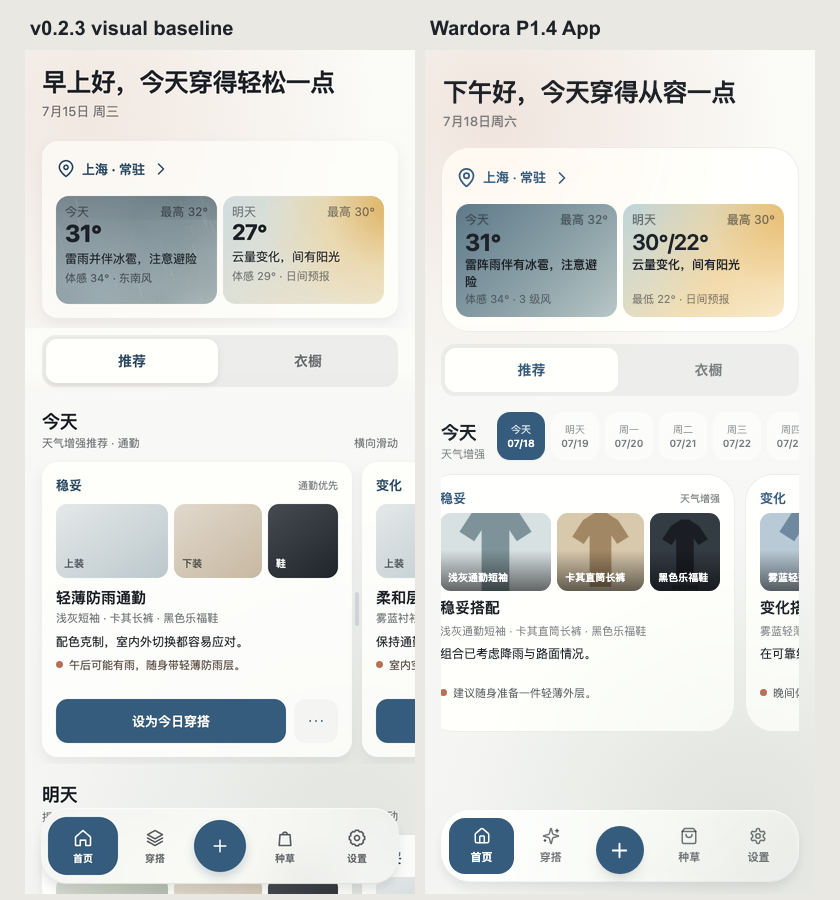
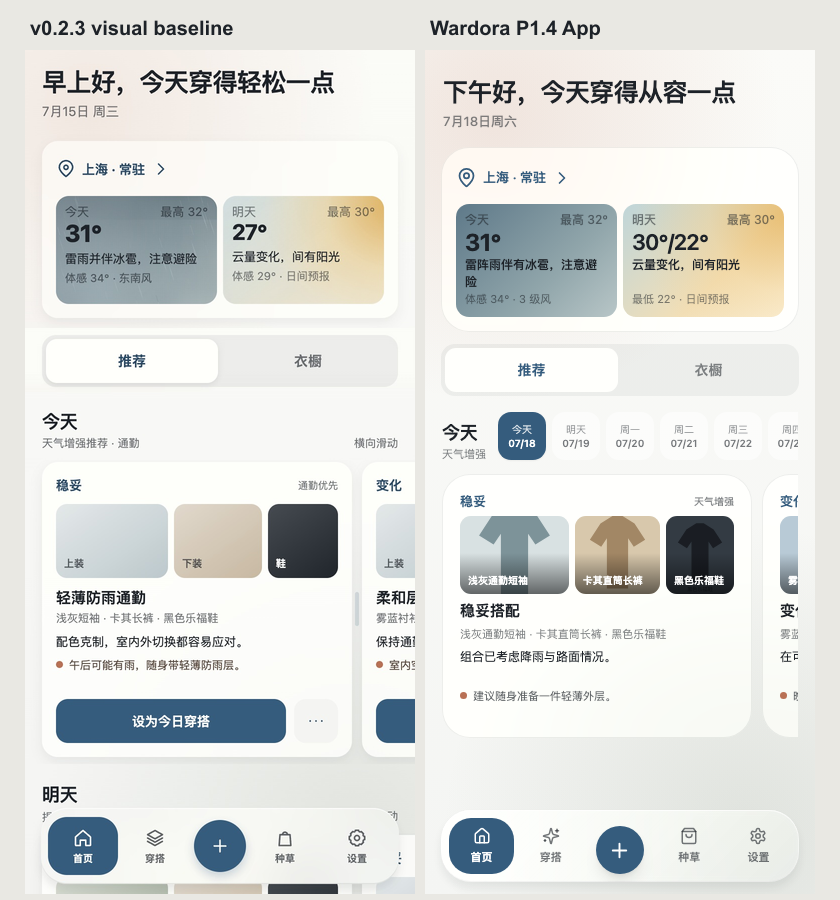
fix: restore Wardora home visual insets

diff --git a/src/components/home/wardora-home-view.tsx b/src/components/home/wardora-home-view.tsx
@@ -65,7 +65,7 @@ export function WardoraHomeView({ controller, garments, renderWardrobeContent }:
       </div>
 
       <HomeFeedTabPanels activeTab={feedTab} recommendation={(
-      <section ref={recommendationRef} className="scroll-mt-4 min-w-0 py-1" data-testid="home-recommendation-module">
+      <section ref={recommendationRef} className="scroll-mt-4 min-w-0 px-px py-1" data-testid="home-recommendation-module">
         {vm.plan ? (
           <div>
             <SectionHeading title={vm.plan.kind === "actual_wear" ? "今天已穿" : "当日穿搭"} subtitle={`${formatShortDate(controller.selectedDate)} · ${vm.plan.kind === "actual_wear" ? "实际穿着已记录" : "计划保护中"}`} />
@@ -86,7 +86,7 @@ export function WardoraHomeView({ controller, garments, renderWardrobeContent }:
         ) : !vm.plan && vm.recommendation.status === "protected" ? (
           <RecommendationState title="当日穿搭已保护" message="天气或推荐变化不会自动覆盖已有安排。" />
         ) : !vm.plan && readyRecommendation ? (
-          <div className="no-scrollbar -mx-4 flex snap-x snap-mandatory gap-2.5 overflow-x-auto px-4 pb-2 pt-0.5 [touch-action:pan-x_pan-y]" aria-label="穿搭推荐，横向滚动" data-testid="home-recommendation-rail">
+          <div className="no-scrollbar flex snap-x snap-mandatory gap-2.5 overflow-x-auto pb-2 pt-0.5 [touch-action:pan-x_pan-y]" aria-label="穿搭推荐，横向滚动" data-testid="home-recommendation-rail">
             {readyRecommendation.candidates.map((candidate) => (
               <RecommendationCard key={candidate.candidateId} candidate={candidate} garmentById={garmentById} contextMode={readyRecommendation.contextMode} />
             ))}
@@ -210,7 +210,7 @@ function SectionHeading({ title, subtitle, action, compact = false }: { title: s
 function RecommendationCard({ candidate, garmentById, contextMode }: { candidate: HomeRecommendationCandidate; garmentById: ReadonlyMap<string, HomeGarment>; contextMode: "forecast" | "locationless" | "weather_fallback" }) {
   const garments = candidate.garmentIds.map((id) => garmentById.get(id)).filter((item): item is HomeGarment => Boolean(item));
   const target = objectiveLabel(candidate.objective);
-  return <article className="ui-card grid w-[310px] min-w-[310px] max-w-[calc(100vw-50px)] basis-[310px] snap-start grid-rows-[18px_78px_20px_16px_34px_32px] gap-y-1.5 p-3.5 !shadow-none" data-testid="home-recommendation-card">
+  return <article className="ui-card grid w-[310px] min-w-[310px] max-w-[calc(100vw-50px)] basis-[310px] snap-start grid-rows-[18px_78px_20px_16px_34px_32px] gap-y-1.5 p-[17px] !shadow-none" data-testid="home-recommendation-card">
     <div data-rec-row="target" className="flex h-[18px] items-center justify-between gap-3"><span className="text-[13px] font-bold leading-[18px] text-denim">{target}</span><span className="text-[10px] font-medium leading-[18px] text-ink/55">{contextLabel(contextMode)}</span></div>
     <div className="grid h-[78px] grid-cols-[1.15fr_.9fr_.72fr] gap-1.5" aria-label={garments.map((item) => item.name).join("、")}>
       {garments.slice(0, 3).map((item) => <div key={item.id} className="relative min-w-0 overflow-hidden rounded-[11px] bg-mist"><OnlineAssetImage asset={item.imageAsset} variant="thumbnail" alt={item.name} className="h-full w-full" imageClassName="object-cover" fallback={<div className="grid h-full place-items-center text-ink/25"><Shirt size={25} /></div>} /><span className="absolute inset-x-0 bottom-0 truncate bg-gradient-to-t from-black/55 to-transparent px-2 pb-1.5 pt-5 text-[10px] font-semibold text-white">{item.name}</span></div>)}

diff --git a/src/components/wardrobe-app.tsx b/src/components/wardrobe-app.tsx
@@ -5802,7 +5802,7 @@ function HomeFeedNavButton({ label, icon: Icon, active = false, onClick }: { lab
   return (
     <AppPressable
       feedback="control"
-      className={`grid min-h-14 place-content-center justify-items-center gap-1 rounded-2xl px-1 text-[11px] font-semibold ${active ? "bg-denim text-white" : "text-ink/62"}`}
+      className={`grid min-h-14 place-content-center justify-items-center gap-1 rounded-[var(--ui-radius-nav-active)] px-1 text-[11px] font-semibold ${active ? "bg-denim text-white" : "text-ink/62"}`}
       onClick={onClick}
       aria-current={active ? "page" : undefined}
     >

diff --git a/docs/recommendations/WARDORA_NEW_HOME_P14_EVIDENCE.md b/docs/recommendations/WARDORA_NEW_HOME_P14_EVIDENCE.md
@@ -32,6 +32,7 @@
 - 尺寸/字体：360、390、430px；100%、130%。
 - 状态：ready forecast（真实候选与图片）、empty locationless、weather fallback、protected plan、actual wear。
 - 检查项：问候、唯一地点、双天气卡、分栏、日期条从属位置、横向推荐卡、底栏、页面横向溢出、文字遮挡、纵向滚动优先、console/page/runtime unexpected error。
+- 视觉几何附加断言：天气/推荐固定文字行轨道；一级推荐工具栏与首卡左边距 `17px`；推荐卡内容内缩至少 `16px`；底栏激活项满足 `activeRadius = outerRadius - inset`；天气和推荐卡不存在可见 box-shadow 横带。
 - 独立只读视觉复审：首轮旧图 FAIL；整改后严格 390×844 ready 首屏 PASS，剩余矩阵由自动化和 Android 门禁继续验证。
 
 ## Android Fixture 门禁
